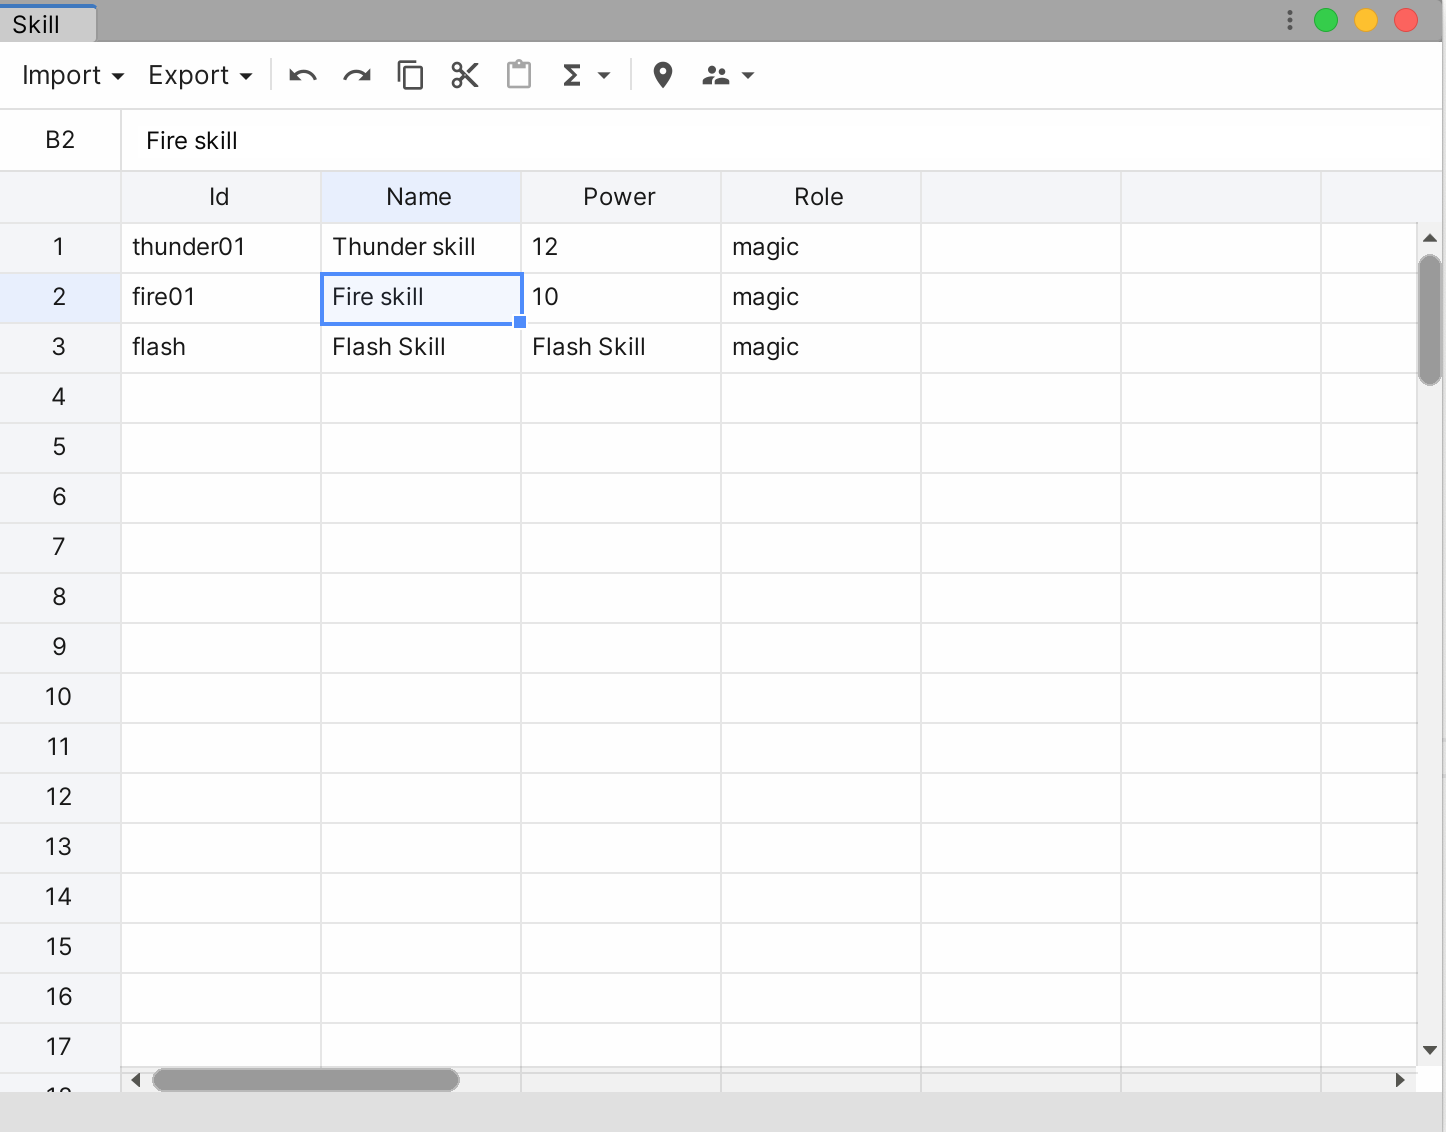
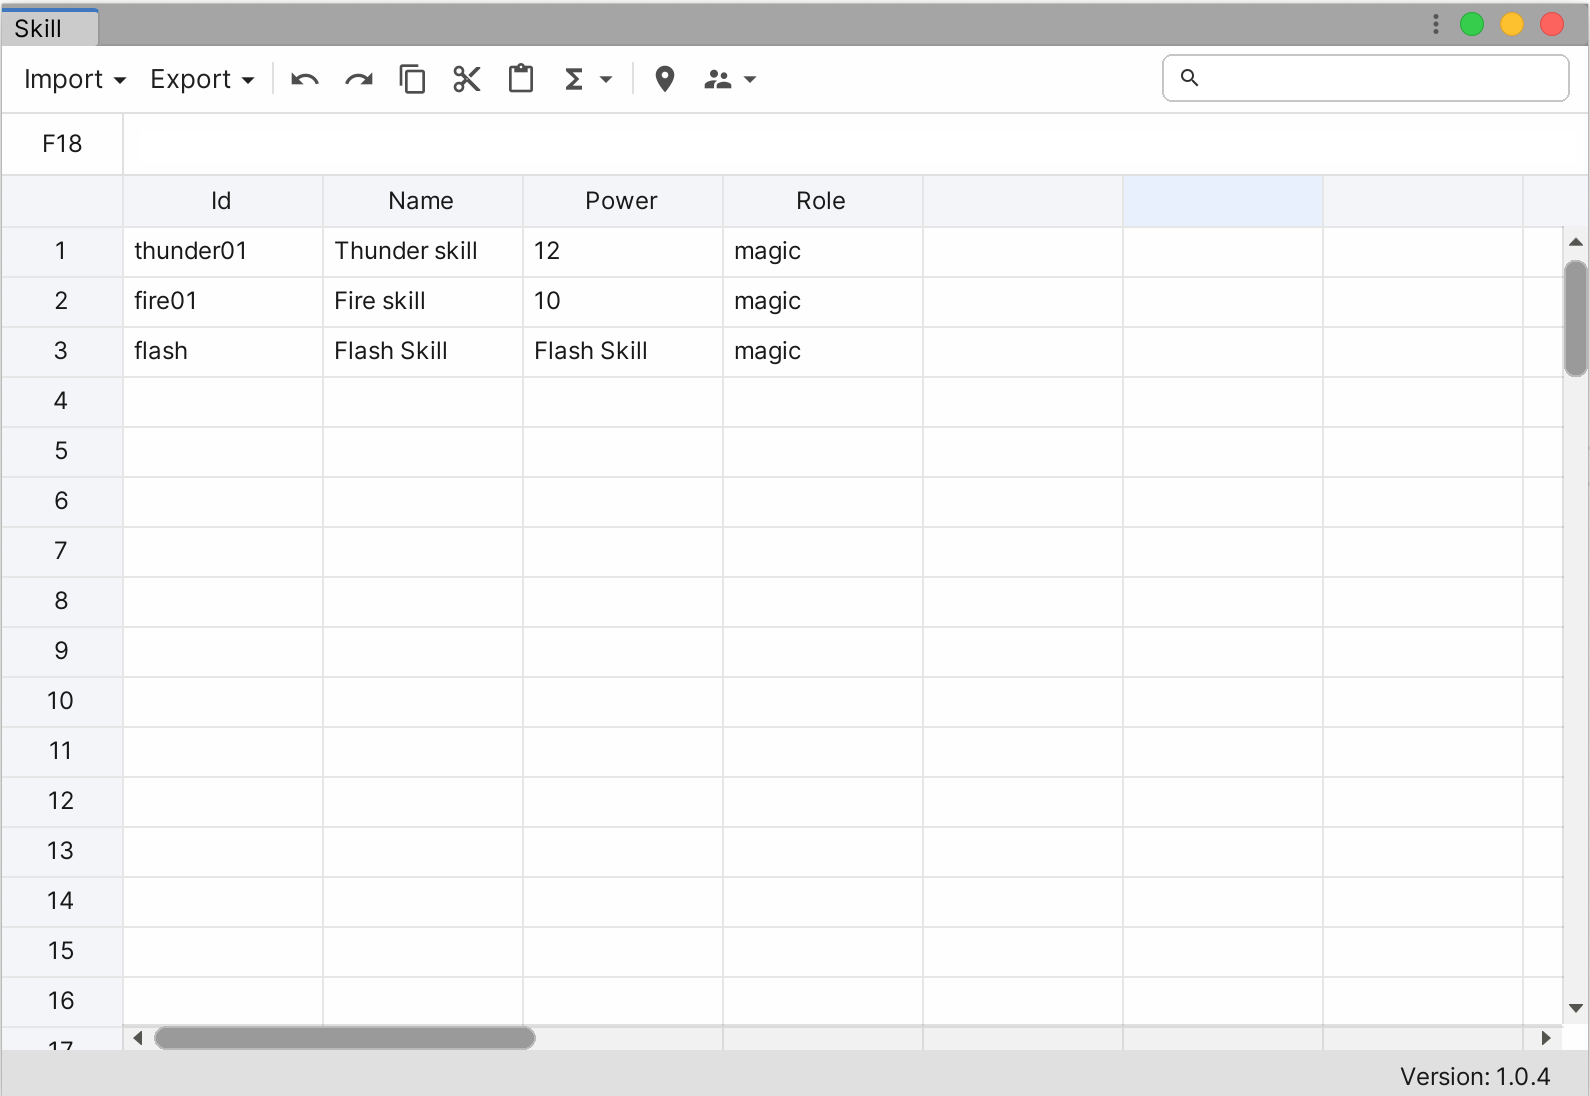
add searching

diff --git a/README.md b/README.md
@@ -5,7 +5,6 @@ Yade
 
 Yade (**Y**et **A**nother **D**ata **E**ditor). Yade is a extendable spreadsheet in side Unity Editor.
 
-
 ![Preview](Manual.assets/overview.png)
 
 ### Create Sheet File
@@ -68,6 +67,19 @@ For now, YADE support import data from excel files (.xlsx, xls) and CSV file.
 We can export data to CSV files by click the **Export** dropdown button. As below image show, we can export raw data (contains formula if exists) and data (don't contains formula) to CSV file.
 
 ![export](Manual.assets/export.png)
+
+### Seach Sheet
+
+We can search cell content via search input in right top corner of main window.
+
+![](Manual.assets/search.png)
+
+For search input:
+1. `Back Arrow` button will go to previous item of results
+2. `Forward Arrow` button will go to next item of results
+3. `Clear` button will clear search results
+4. `Enter` key will go to next item of results when search input text filed is focusing
+5. `SHIFT + ENTER` key will go to previous item of results when search input text is focusing
 
 ### Ping In Unity
 
